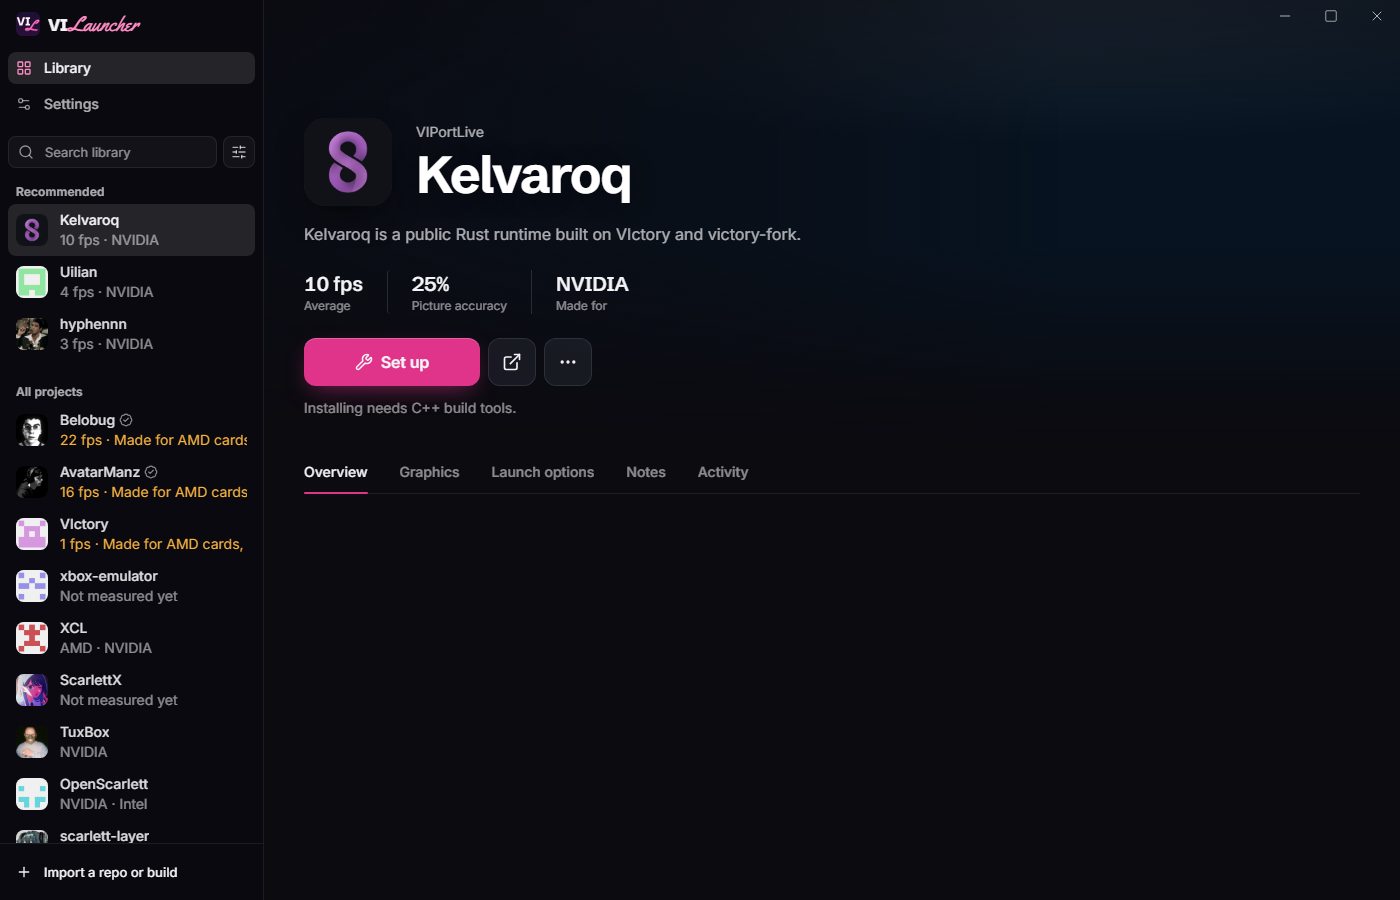
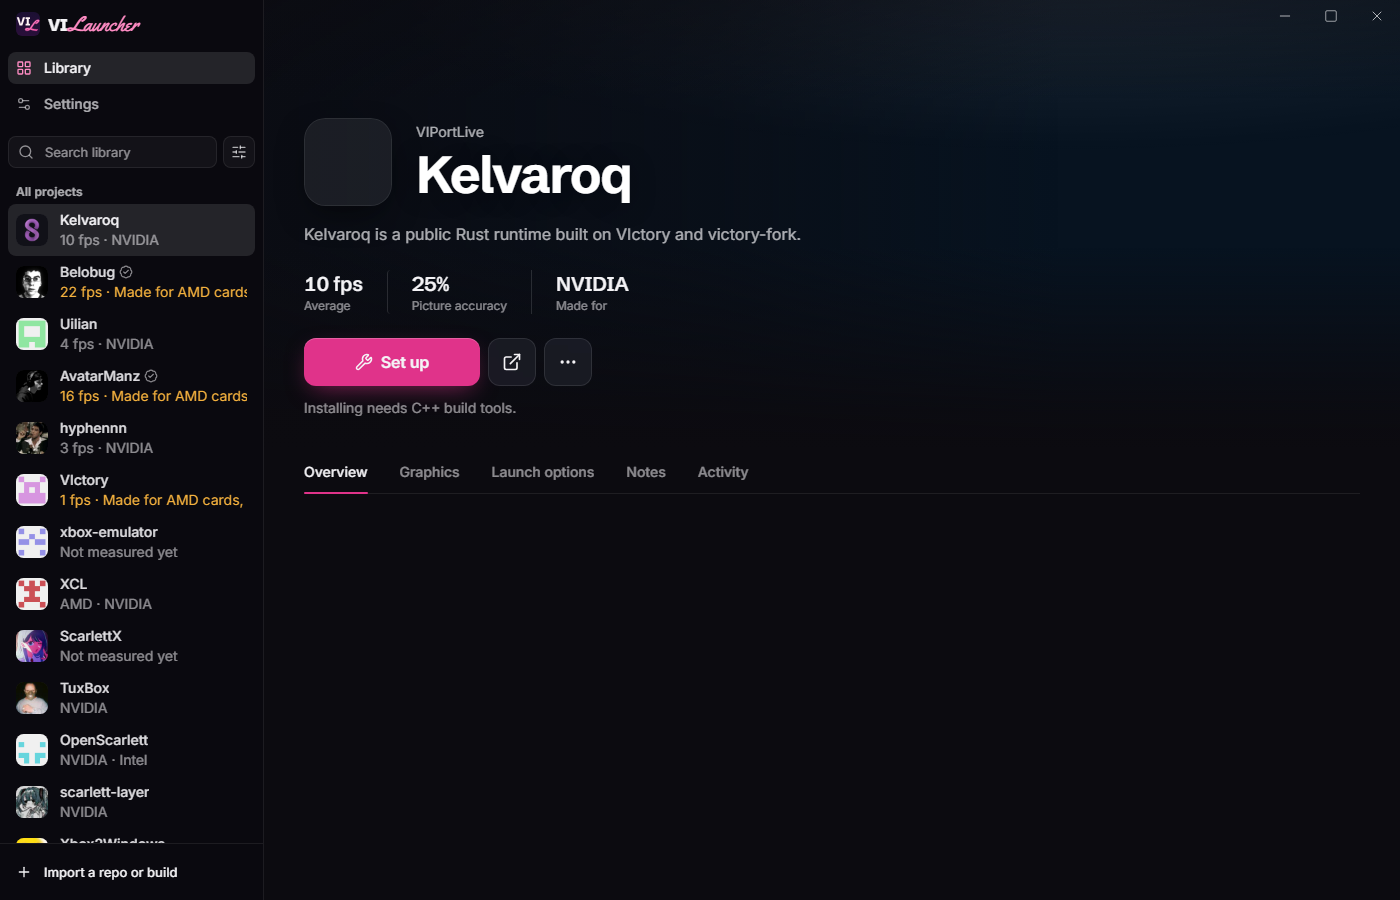
Remove the Recommended group
The fit ranking used memory figures that authors report, which are too new and uneven to
rank builds on, and it put the weakest builds first. The list now shows your repos,
installed builds, and all other builds in the list's order. Fit warnings stay on each row.
Screenshots are retaken without the group.

Changed region(s): [[0.0, 0.28, 0.1843, 0.9333], [0.215, 0.1244, 0.2764, 0.2178], [0.0, 0.1867, 0.0921, 0.2178]]

diff --git a/src/components/shell/sidebar.tsx b/src/components/shell/sidebar.tsx
@@ -9,7 +9,7 @@ import { Select } from "@/components/ui/select"
 import { Spinner } from "@/components/ui/spinner"
 import { Switch } from "@/components/ui/switch"
 import { Tooltip } from "@/components/ui/tooltip"
-import { assess, mainGpu, recommendRank, SORTS, sortProjects, withSpec } from "@/lib/compat"
+import { assess, mainGpu, SORTS, sortProjects, withSpec } from "@/lib/compat"
 import { openUrl } from "@/lib/api"
 import { fps, gpuText, shortStage } from "@/lib/format"
 import { run, useAlias, useStore } from "@/lib/store"
@@ -156,13 +156,12 @@ export function Sidebar() {
 }
 
 /**
- * The sidebar's groups. Recommended: the three not-installed builds that fit the
- * player's PC best (a good fit, then close, then nothing known yet), in VIPortLive's
- * order within each. A build that doesn't fit is never recommended; its row warns.
+ * The sidebar's groups: your repos, installed builds, and every other build in the list's order.
+ * There is no "recommended" group: fit is judged from memory figures that authors report, which
+ * are too new and too uneven to rank builds on. A build that doesn't fit still shows its warning.
  */
 function group(snap: Snapshot, query: string, filter: number) {
   const s = snap.settings
-  const system = withSpec(snap.system, s)
   const keep = (p: Project) => {
     const text = !query || p.name.toLowerCase().includes(query) || p.repo.toLowerCase().includes(query)
     const card = (name: string) => p.custom || p.gpu.some((g) => g.toLowerCase() === name)
@@ -172,21 +171,10 @@ function group(snap: Snapshot, query: string, filter: number) {
     return text && tier && taken && (filter === 1 ? card("nvidia") : filter === 2 ? card("amd") : true)
   }
   const listed = sortProjects(snap.list.items.filter(keep), s.list_sort)
-  const rest = listed.filter((p) => !p.installed)
-  // Recommended never includes a taken-down project, whatever the filter shows.
-  const fits = rest
-    .flatMap((p) => {
-      const rank = p.listing.nuked ? null : recommendRank(assess(p, system).level)
-      return rank === null ? [] : [{ p, rank }]
-    })
-    .sort((a, b) => a.rank - b.rank)
-    .map((x) => x.p)
-  const recommended = fits.slice(0, 3)
   return [
     { title: "Your repos", rows: sortProjects(snap.custom.filter(keep), s.list_sort) },
     { title: "Installed", rows: listed.filter((p) => p.installed) },
-    { title: "Recommended", rows: recommended },
-    { title: "All projects", rows: rest.filter((p) => !recommended.includes(p)) },
+    { title: "All projects", rows: listed.filter((p) => !p.installed) },
   ].filter((s) => s.rows.length > 0)
 }
 

diff --git a/src/lib/compat.ts b/src/lib/compat.ts
@@ -154,11 +154,3 @@ export function assess(p: Project, system: SystemInfo | null): Assessment {
             : null
   return { level, headline, warning, gpu: gpuCheck, ram, vram }
 }
-
-/**
- * Where a build sits in "recommended": a good fit first, then the close ones, then
- * builds with nothing known against the PC. null when it doesn't fit, so it is never recommended.
- */
-export function recommendRank(level: Level): number | null {
-  return level === "good" ? 0 : level === "unknown" ? 2 : level === "close" ? 1 : null
-}

diff --git a/README.md b/README.md
@@ -45,7 +45,7 @@ Get `VILauncher.exe` (portable) or the installer from [Releases](https://github.
 ## Features
 
 - **Library.** Projects from VIPortLive, your own Git repos, and prebuilt ZIPs. Each shows its reported frame rate, the graphics cards it was made for, and whether it is verified. Projects VIPortLive has taken down are hidden by default; you can show them, and they open VIPortLive's page.
-- **Find what fits your PC.** The launcher reads your graphics card, memory and processor. Recommended builds are the ones that fit, and builds that won't fit show a warning. The fit uses the memory the author reported, which is usage, not a minimum. You can set your own RAM and video memory under *Advanced: by PC spec*.
+- **Fit warnings.** The launcher reads your graphics card, memory and processor, and compares them with what each build's author reported. A build that doesn't fit shows a warning; this is usage the author saw, not a minimum. You can set your own RAM and video memory under *Advanced: by PC spec*. There is no "recommended" list: these projects are too new for their reports to rank them.
 - **Filter and sort.** Sort by name, frame rate, stars or recent commits; filter by tier and graphics card.
 - **Tool setup.** Finds Git, Rust and the C++ build tools, and installs missing ones with winget (Windows asks for permission).
 - **Install, update, play.** Downloaded and built once, then kept. Updates save any uncommitted edits as a patch file, keep the previous build for one-step rollback, and show a warning first.
